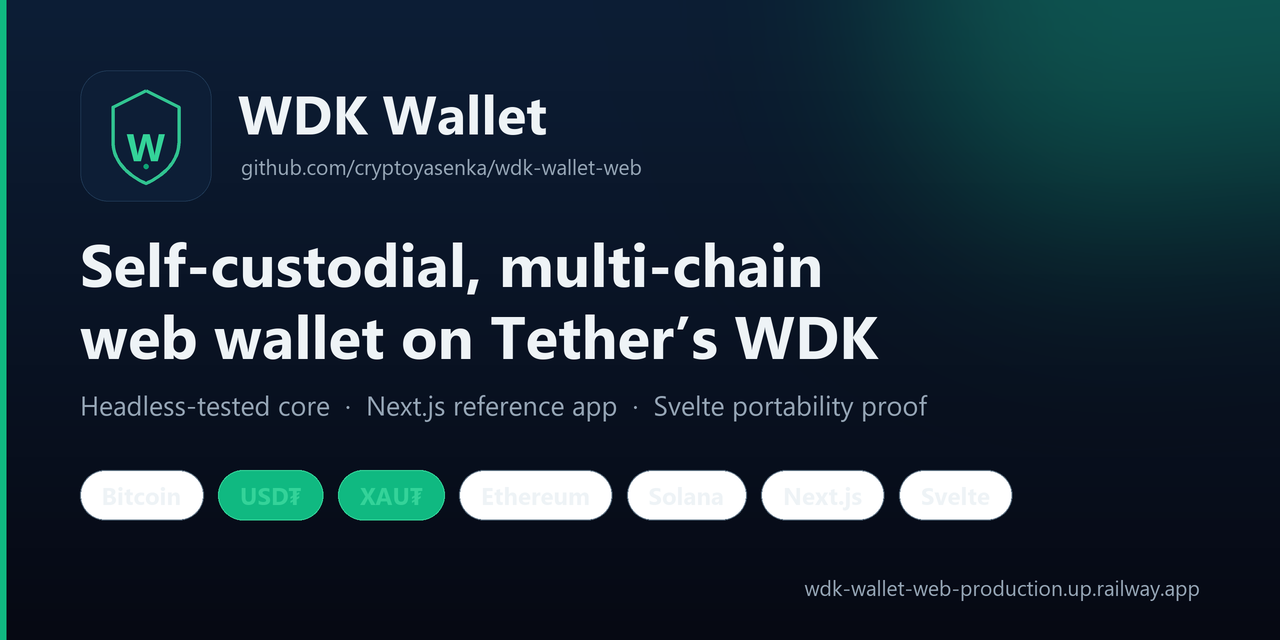
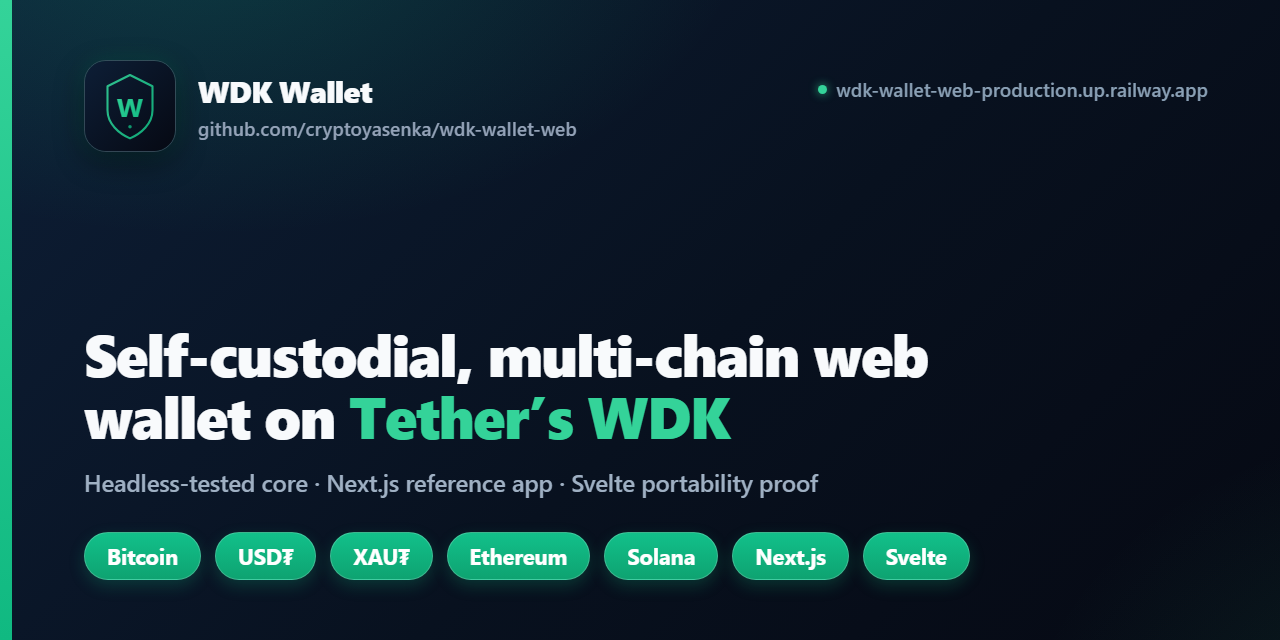
chore: redesign GitHub social-preview with uniform, readable chips; add reproducible generator

diff --git a/tools/social-preview/card.html b/tools/social-preview/card.html
@@ -1,0 +1,146 @@
+<!doctype html>
+<!--
+  Source of truth for the GitHub social-preview (og:image), 1280×640.
+  Rendered to ../../.github/social-preview.png by render.mjs (Playwright).
+  Tooling only — lives outside the pnpm workspace, no @tetherto/* imports.
+  Two chip styles via ?v= : "emerald" (uniform filled, default) | "glass"
+  (uniform dark-glass + per-chain colour dot). Everything inline: no network.
+-->
+<html lang="en">
+<head>
+<meta charset="utf-8" />
+<style>
+  * { margin: 0; padding: 0; box-sizing: border-box; }
+  html, body {
+    width: 1280px; height: 640px; overflow: hidden;
+    font-family: "Segoe UI", system-ui, -apple-system, "Helvetica Neue", Arial, sans-serif;
+    -webkit-font-smoothing: antialiased; text-rendering: optimizeLegibility;
+    color: #f1f5f9;
+    background:
+      radial-gradient(900px 520px at 16% -12%, rgba(16,185,129,.20), transparent 60%),
+      radial-gradient(760px 620px at 112% 120%, rgba(52,211,153,.12), transparent 55%),
+      linear-gradient(135deg, #0d1e36 0%, #08111f 55%, #060913 100%);
+  }
+  /* left emerald accent bar */
+  body::before {
+    content: ""; position: fixed; left: 0; top: 0; bottom: 0; width: 12px;
+    background: linear-gradient(180deg, #34d399, #10b981);
+  }
+  .wrap {
+    position: relative; width: 100%; height: 100%;
+    padding: 60px 72px 60px 84px; display: flex; flex-direction: column;
+  }
+
+  /* header */
+  .head { display: flex; align-items: center; gap: 22px; }
+  .logo {
+    width: 92px; height: 92px; border-radius: 22px; flex: none;
+    border: 1px solid rgba(255,255,255,.16);
+    box-shadow: 0 10px 30px rgba(0,0,0,.45), 0 0 22px rgba(16,185,129,.18), 0 0 0 1px rgba(16,185,129,.12) inset;
+  }
+  .brand { display: flex; flex-direction: column; gap: 4px; }
+  .brand .name { font-size: 30px; font-weight: 800; letter-spacing: -.6px; color: #f8fafc; }
+  .brand .repo { font-size: 19px; font-weight: 500; color: #94a3b8; letter-spacing: .1px; }
+
+  /* main copy */
+  .main { margin-top: auto; }
+  .title {
+    font-size: 58px; font-weight: 800; line-height: 1.06; letter-spacing: -1.4px;
+    color: #f8fafc; max-width: 1000px;
+  }
+  .title .accent { color: #34d399; }
+  .sub { margin-top: 20px; font-size: 24px; font-weight: 500; color: #9fb0c3; letter-spacing: -.2px; }
+
+  /* chips */
+  .chips { margin-top: 34px; display: flex; flex-wrap: wrap; gap: 14px; }
+  .chip {
+    display: inline-flex; align-items: center; gap: 10px;
+    padding: 12px 22px; border-radius: 999px;
+    font-size: 22px; font-weight: 700; letter-spacing: -.2px; line-height: 1;
+  }
+  .chip .dot { width: 13px; height: 13px; border-radius: 50%; flex: none; }
+
+  /* ---- variant: emerald (uniform filled) ---- */
+  .v-emerald .chip {
+    color: #ffffff;
+    background: linear-gradient(180deg, #12c08a 0%, #0ea371 100%);
+    border: 1px solid rgba(255,255,255,.20);
+    box-shadow: 0 6px 16px rgba(16,185,129,.22);
+  }
+  .v-emerald .chip .dot { display: none; }
+
+  /* ---- variant: glass (uniform dark + colour dot) ---- */
+  .v-glass .chip {
+    color: #f1f5f9;
+    background: rgba(255,255,255,.065);
+    border: 1.5px solid rgba(255,255,255,.16);
+    box-shadow: 0 6px 16px rgba(0,0,0,.28);
+  }
+  .v-glass .chip[data-c="btc"]  .dot { background: #f7931a; }
+  .v-glass .chip[data-c="usdt"] .dot { background: #26a17b; }
+  .v-glass .chip[data-c="xaut"] .dot { background: #d4af37; }
+  .v-glass .chip[data-c="eth"]  .dot { background: #7b86c2; }
+  .v-glass .chip[data-c="sol"]  .dot { background: #14f195; }
+  .v-glass .chip[data-c="next"] .dot { background: #e6edf3; }
+  .v-glass .chip[data-c="svelte"] .dot { background: #ff3e00; }
+
+  /* footer */
+  .foot {
+    position: absolute; right: 72px; top: 76px;
+    font-size: 19px; font-weight: 600; color: #8aa0b5; letter-spacing: .1px;
+    display: inline-flex; align-items: center; gap: 9px;
+  }
+  .foot .live { width: 9px; height: 9px; border-radius: 50%; background: #34d399; box-shadow: 0 0 10px rgba(52,211,153,.8); }
+</style>
+</head>
+<body class="v-emerald">
+  <div class="wrap">
+    <div class="head">
+      <svg class="logo" viewBox="0 0 512 512" xmlns="http://www.w3.org/2000/svg">
+        <defs>
+          <linearGradient id="bg" x1="0" y1="0" x2="1" y2="1">
+            <stop offset="0%" stop-color="#0d1e36"/>
+            <stop offset="100%" stop-color="#060913"/>
+          </linearGradient>
+          <linearGradient id="accent" x1="0" y1="0" x2="1" y2="1">
+            <stop offset="0%" stop-color="#34d399"/>
+            <stop offset="100%" stop-color="#10b981"/>
+          </linearGradient>
+        </defs>
+        <rect width="512" height="512" rx="108" fill="url(#bg)"/>
+        <path d="M256 80 L384 144 V280 C384 356 320 412 256 440 C192 412 128 356 128 280 V144 Z"
+              fill="none" stroke="url(#accent)" stroke-width="12" stroke-linejoin="round" opacity="0.9"/>
+        <text x="256" y="316" font-family="system-ui, sans-serif" font-size="150" font-weight="700"
+              fill="url(#accent)" text-anchor="middle">W</text>
+        <circle cx="256" cy="374" r="10" fill="#10b981" opacity="0.8"/>
+      </svg>
+      <div class="brand">
+        <div class="name">WDK Wallet</div>
+        <div class="repo">github.com/cryptoyasenka/wdk-wallet-web</div>
+      </div>
+    </div>
+
+    <div class="main">
+      <div class="title">Self-custodial, multi-chain web wallet on <span class="accent">Tether&rsquo;s WDK</span></div>
+      <div class="sub">Headless-tested core &middot; Next.js reference app &middot; Svelte portability proof</div>
+      <div class="chips">
+        <span class="chip" data-c="btc"><span class="dot"></span>Bitcoin</span>
+        <span class="chip" data-c="usdt"><span class="dot"></span>USD&#8366;</span>
+        <span class="chip" data-c="xaut"><span class="dot"></span>XAU&#8366;</span>
+        <span class="chip" data-c="eth"><span class="dot"></span>Ethereum</span>
+        <span class="chip" data-c="sol"><span class="dot"></span>Solana</span>
+        <span class="chip" data-c="next"><span class="dot"></span>Next.js</span>
+        <span class="chip" data-c="svelte"><span class="dot"></span>Svelte</span>
+      </div>
+    </div>
+
+    <div class="foot"><span class="live"></span>wdk-wallet-web-production.up.railway.app</div>
+  </div>
+
+  <script>
+    // ?v=emerald (default) | ?v=glass — sets the chip style class on <body>.
+    var v = new URLSearchParams(location.search).get("v");
+    document.body.className = v === "glass" ? "v-glass" : "v-emerald";
+  </script>
+</body>
+</html>